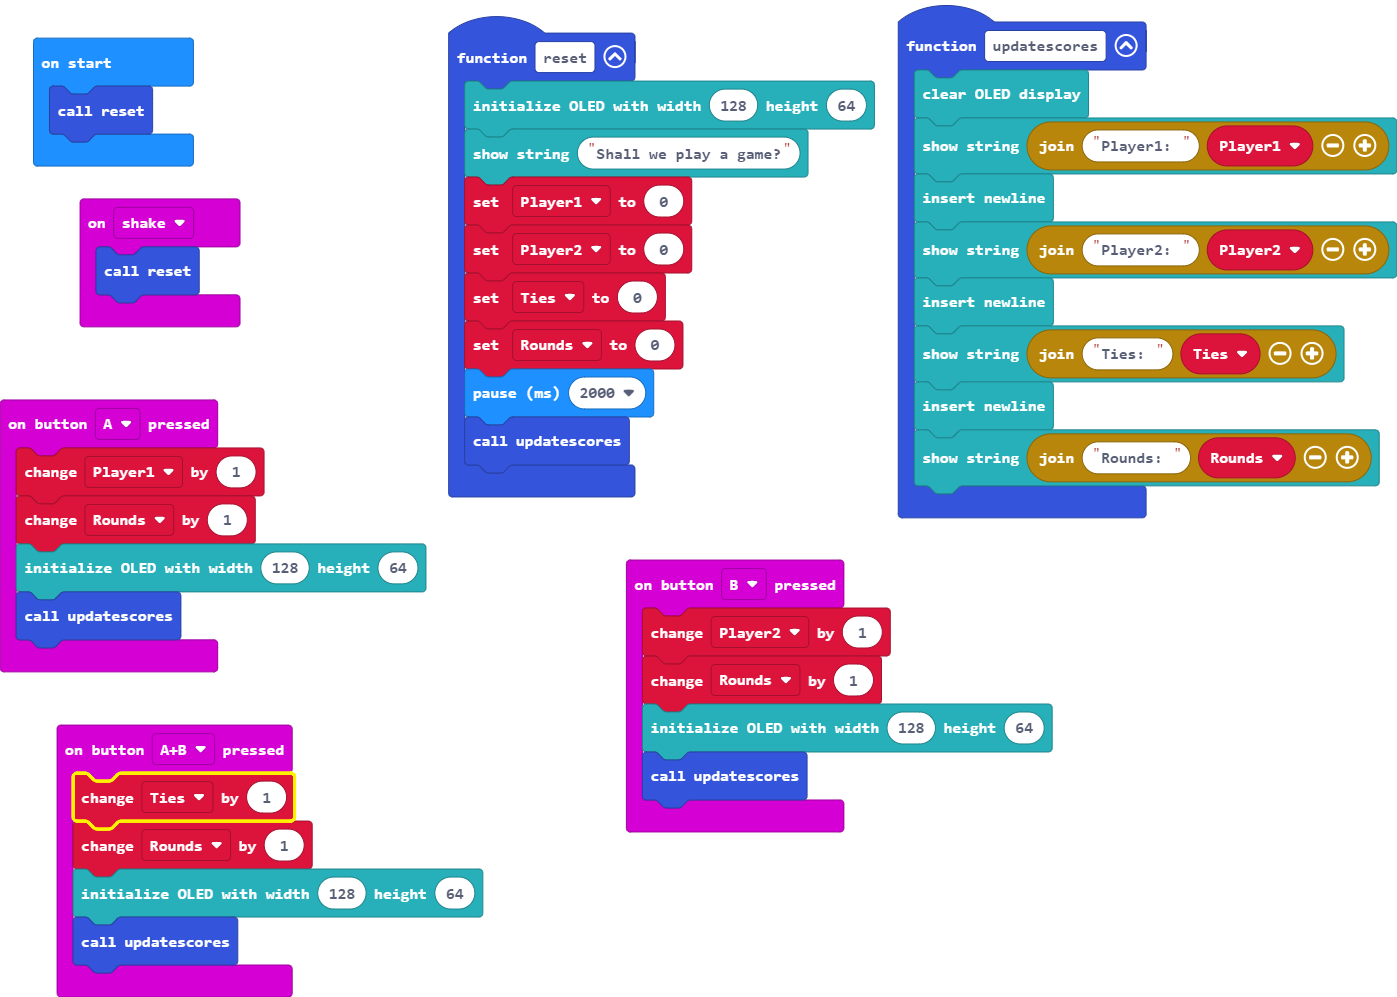
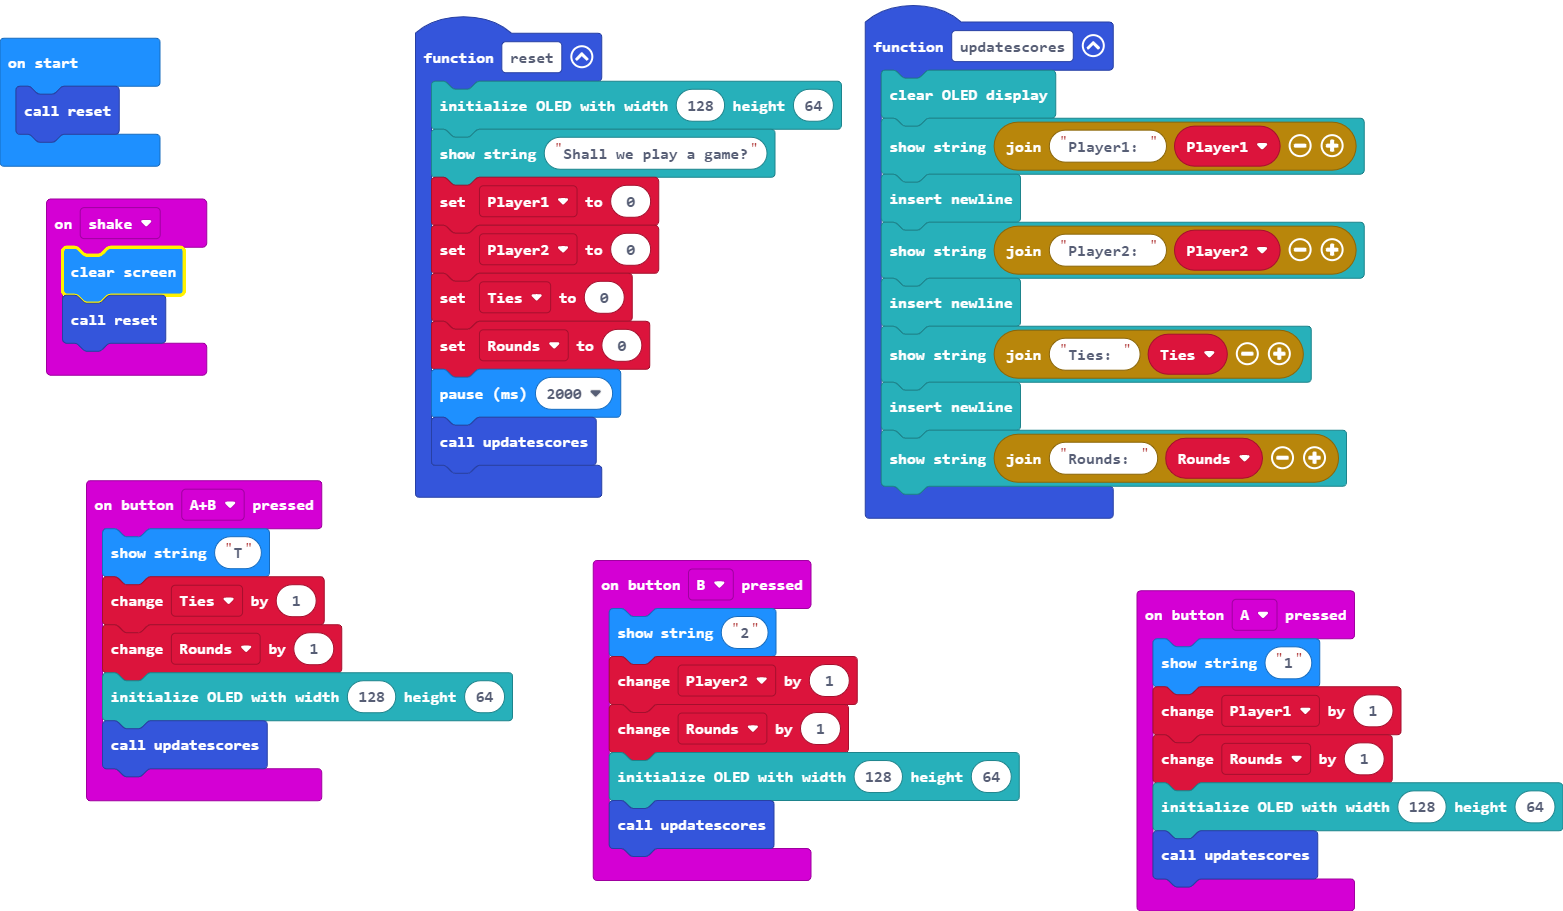
Update main.blocks, main.ts

diff --git a/main.ts b/main.ts
@@ -1,10 +1,12 @@
 input.onButtonPressed(Button.A, function () {
+    basic.showString("1")
     Player1 += 1
     Rounds += 1
     OLED.init(128, 64)
     updatescores()
 })
 input.onButtonPressed(Button.AB, function () {
+    basic.showString("T")
     Ties += 1
     Rounds += 1
     OLED.init(128, 64)
@@ -21,12 +23,14 @@ function updatescores () {
     OLED.writeStringNewLine("Rounds: " + Rounds)
 }
 input.onButtonPressed(Button.B, function () {
+    basic.showString("2")
     Player2 += 1
     Rounds += 1
     OLED.init(128, 64)
     updatescores()
 })
 input.onGesture(Gesture.Shake, function () {
+    basic.clearScreen()
     reset()
 })
 function reset () {
